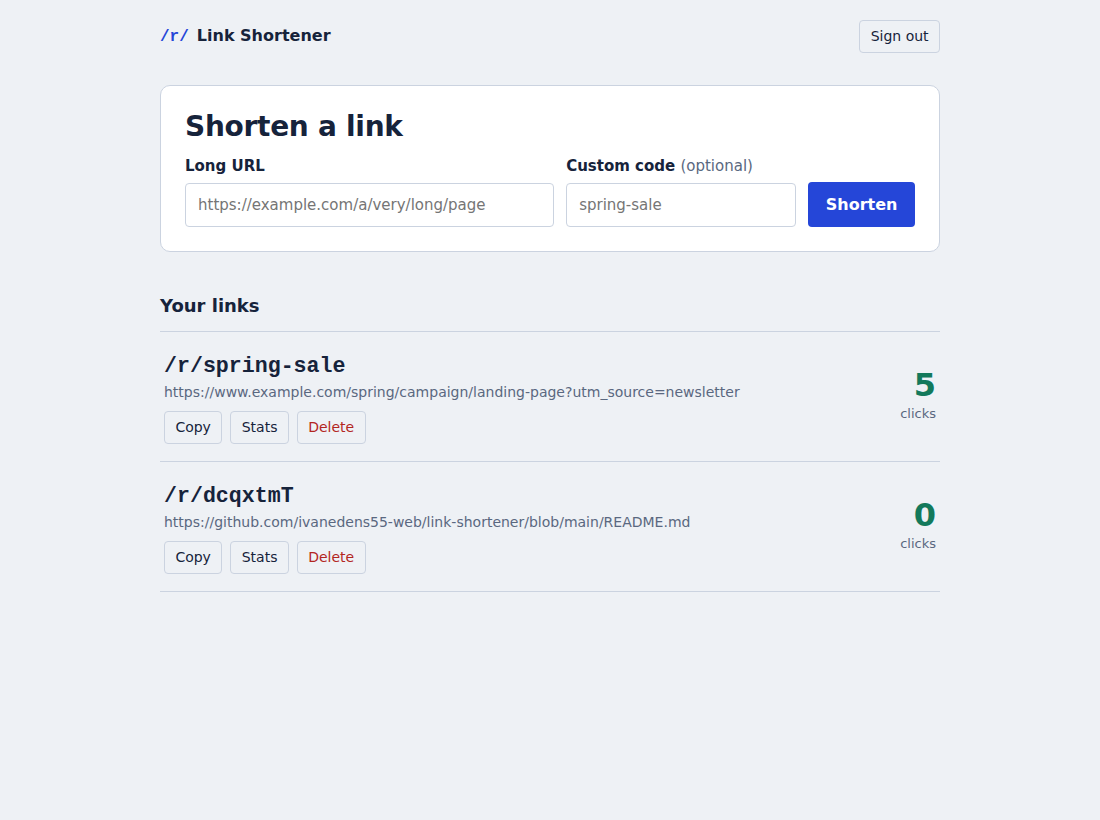
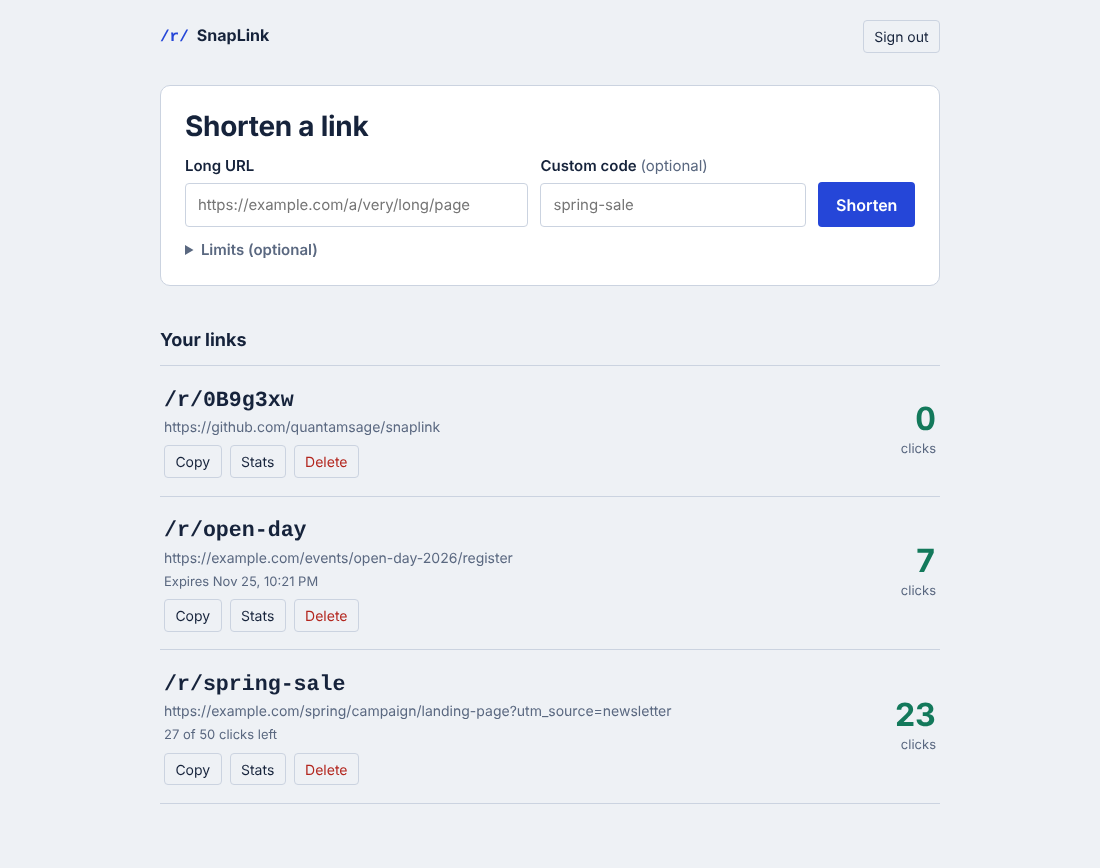
Update README and screenshots for SnapLink

diff --git a/README.md b/README.md
@@ -1,8 +1,10 @@
-# Link Shortener with Click Analytics
+# SnapLink
+
+![Tests](https://github.com/quantamsage/snaplink/actions/workflows/tests.yml/badge.svg)
+
+A link shortener with click analytics, expiring links and QR codes.
 
 Turns long URLs into short links and counts every click. Users sign in, create and manage their own links, and see a per-link stats page with daily clicks and top referrers. The backend handles the redirect itself, so every click is recorded in the database before the visitor is sent on.
-
-(The API runs on Render's free tier and sleeps when idle: the first request can take ~50 seconds.)
 
 ## Features
 
@@ -11,6 +13,9 @@ Turns long URLs into short links and counts every click. Users sign in, create a
 - Public redirect at `/r/{code}` that records the click, then redirects with HTTP 302
 - Dashboard of your links with live click counts, copy and delete
 - Stats page: all-time total, clicks per day (7 / 30 / 90 days, zero days included) and top 5 referrers
+- **Expiring links:** set a date and time after which a link stops working, a maximum number of clicks, or both. Change or remove the limits at any time. A stopped link returns **410 Gone**, doesn't count the visit, and shows visitors a small "this link has expired" page instead of JSON.
+- **Safe under load:** a link with a click limit is row-locked while its clicks are counted, so two people clicking at the same moment can't both use the last click (there's a test that fires two simultaneous clicks).
+- **QR codes:** every link has a QR code (preview, PNG or SVG download). It encodes the short URL, not the target, so scans are counted like clicks.
 - Users can only see and change their own links (others' links return 404)
 - API contract in `docs/openapi.yaml`, enforced by a test
 
@@ -26,10 +31,9 @@ Turns long URLs into short links and counts every click. Users sign in, create a
 
 ## Tech stack
 
-- **Backend:** Python 3.12, FastAPI, Pydantic v2, psycopg 3 (connection pool), PyJWT, argon2-cffi
+- **Backend:** Python 3.12, FastAPI, Pydantic v2, psycopg 3 (connection pool), PyJWT, argon2-cffi, segno (QR codes)
 - **Frontend:** Next.js 16 (App Router), React 19, TypeScript, plain CSS
-- **Database:** PostgreSQL 16 (Supabase), tables prefixed `shortener_`
-- **Hosting:** Render (backend, Frankfurt) · Vercel (frontend) · Supabase (database)
+- **Database:** PostgreSQL 16 (also works on Supabase), tables prefixed `shortener_`
 - **Testing:** pytest against a real Postgres database; GitHub Actions CI
 
 ## Architecture
@@ -38,16 +42,16 @@ Turns long URLs into short links and counts every click. Users sign in, create a
 flowchart LR
     B[Browser]
     V[Visitor clicking a short link]
-    FE["Next.js frontend<br/>(Vercel)"]
-    API["FastAPI backend<br/>(Render)"]
-    DB[("PostgreSQL<br/>(Supabase)")]
+    FE["Next.js frontend"]
+    API["FastAPI backend"]
+    DB[("PostgreSQL")]
     T[Target website]
 
     B -- "loads pages" --> FE
     B -- "JSON over HTTPS<br/>Authorization: Bearer JWT" --> API
     V -- "GET /r/{code}" --> API
     API -- "302 Location" --> T
-    API -- "parameterised SQL<br/>as role shortener_app<br/>(Session pooler)" --> DB
+    API -- "parameterised SQL<br/>as role shortener_app" --> DB
 ```
 
 The frontend never talks to the database. It only renders pages and calls the API. All state lives in Postgres; all validation, ownership checks and counting happen in the backend.
@@ -70,7 +74,7 @@ The frontend never talks to the database. It only renders pages and calls the AP
 
 The access token is kept in `sessionStorage`. The options and why:
 
-- **httpOnly cookie:** JavaScript can't read it, so XSS can't steal it. But the frontend (vercel.app) and API (onrender.com) are different sites, so it would be a third-party cookie, which browsers increasingly block, and it brings CSRF protection into play. Worth it with a custom domain for both.
+- **httpOnly cookie:** JavaScript can't read it, so XSS can't steal it. But when the frontend and API are on different sites it would be a third-party cookie, which browsers increasingly block, and it brings CSRF protection into play. Worth it with a custom domain for both.
 - **localStorage:** survives restarts, but any XSS can read it, and it lingers for a long time.
 - **Memory only:** safest against persistence, but every refresh signs you out.
 - **sessionStorage (chosen):** survives a refresh, cleared when the tab closes. Still readable by XSS, so the risk is reduced with a short token lifetime (30 min), a strict Content-Security-Policy, React's output escaping, and no `dangerouslySetInnerHTML`.
@@ -78,7 +82,7 @@ The access token is kept in `sessionStorage`. The options and why:
 ## Project structure
 
 ```
-link-shortener/
+snaplink/
 ├── backend/
 │   ├── app/
 │   │   ├── main.py          # app factory: middleware, CORS, headers, routes
@@ -91,34 +95,32 @@ link-shortener/
 │   │   ├── codes.py         # short-code generation, referrer parsing
 │   │   ├── deps.py          # DB connection + current user dependencies
 │   │   └── routers/         # auth.py, links.py, redirect.py
-│   ├── tests/               # 65 tests (unit, contract, real-Postgres API tests)
+│   ├── tests/               # 79 tests (unit, contract, real-Postgres API tests)
 │   ├── requirements.txt / requirements-dev.txt
 │   └── .env.example
 ├── frontend/
 │   ├── app/                 # pages: dashboard, login, register, links/[id] (stats)
-│   ├── components/          # Header, AuthForm, CopyButton
-│   ├── lib/                 # api.ts (only backend client), auth.ts, useRequireAuth.ts
+│   ├── components/          # Header, AuthForm, CopyButton, LinkLimitsPanel, QrPanel
+│   ├── lib/                 # api.ts (only backend client), auth.ts, limits.ts, useRequireAuth.ts
 │   ├── next.config.ts       # Content-Security-Policy + security headers
 │   └── .env.example
 ├── db/schema.sql            # tables, indexes, constraints, app role, RLS
 ├── docs/openapi.yaml        # the API contract
 ├── .github/workflows/tests.yml
-├── render.yaml              # Render blueprint (backend)
 └── README.md
 ```
 
 ## Setup (Windows / PowerShell)
 
-### 1. Database (Supabase)
+### 1. Database (local PostgreSQL)
 
-1. In your Supabase project, open **SQL Editor**, paste `db/schema.sql` and run it.
-2. Set the app role's password (generate a long random one, keep it out of the repo):
-   ```sql
-   alter role shortener_app with login password '<long-random-password>';
-   ```
-3. **Settings → Data API:** make sure the Data API is off (the backend connects directly).
-4. **Connect → Session pooler:** copy the string, then change the user to the app role:
-   `postgresql://shortener_app.<project-ref>:<password>@aws-0-<region>.pooler.supabase.com:5432/postgres`
+```powershell
+psql -U postgres -c "CREATE DATABASE shortener_dev"
+psql -U postgres -d shortener_dev -f db\schema.sql
+psql -U postgres -c "ALTER ROLE shortener_app WITH LOGIN PASSWORD '<choose-a-password>'"
+```
+
+In `backend/.env`, set `DATABASE_URL=postgresql://shortener_app:<that-password>@localhost:5432/shortener_dev` and `PUBLIC_BASE_URL=http://localhost:8000` (short links and QR codes point there).
 
 ### 2. Backend
 
@@ -153,7 +155,7 @@ cd backend
 python -m pytest -q
 ```
 
-Without test database variables, 13 unit and contract tests run and 52 database tests are **skipped**. The full suite runs on every push in GitHub Actions (Postgres 16 container). To run it locally you need a disposable Postgres (local install or `docker run -e POSTGRES_PASSWORD=postgres -p 5432:5432 postgres:16`), with `db/schema.sql` applied, then:
+Without test database variables, 13 unit and contract tests run and 66 database tests are **skipped**. The full suite runs on every push in GitHub Actions (Postgres 16 container). To run it locally you need a disposable Postgres (local install or `docker run -e POSTGRES_PASSWORD=postgres -p 5432:5432 postgres:16`), with `db/schema.sql` applied, then:
 
 ```powershell
 $env:TEST_DATABASE_URL = "postgresql://shortener_app:<pw>@localhost:5432/shortener_test"
@@ -161,34 +163,25 @@ $env:TEST_ADMIN_DATABASE_URL = "postgresql://postgres:<pw>@localhost:5432/shorte
 python -m pytest -q
 ```
 
-> ⚠ The tests **wipe the shortener tables** before each test. Never point them at your real Supabase database.
-
-## Deployment
-
-**Backend (Render):** New → Blueprint → select this repo (uses `render.yaml`, region Frankfurt). Set:
-`DATABASE_URL` (Session pooler string as `shortener_app`), `PUBLIC_BASE_URL` (the Render URL, e.g. `https://link-shortener-api.onrender.com`), `CORS_ORIGINS` (your Vercel URL, no trailing slash). `JWT_SECRET` is generated by Render.
-
-**Frontend (Vercel):** import the repo, set **Root Directory** to `frontend`, add `NEXT_PUBLIC_API_URL` = your Render URL, deploy. It's baked in at build time, so redeploy after changing it.
-
-Then put the final Vercel URL in Render's `CORS_ORIGINS` and redeploy the backend.
+> ⚠ The tests **wipe the shortener tables** before each test. Never point them at a database you care about.
 
 ## How it works
 
 1. **Sign up / sign in.** The backend hashes the password with Argon2id. Login returns a JWT (`sub` = user id, `exp` = 30 min). The frontend sends it as `Authorization: Bearer …`.
 2. **Create a link.** The backend validates the URL (http/https only, ≤ 2048 chars) and the optional custom code, then inserts it. Random codes come from `secrets` (62⁷ ≈ 3.5 trillion options); on the rare collision it retries.
 3. **Someone clicks.** `GET /r/{code}` looks up the code (unique index), inserts a row into `shortener_clicks` with the time and the referrer's **host only**, then returns a **302** with `Cache-Control: no-store`. A 301 would be cached by browsers and later clicks would never reach the server.
-4. **Stats.** One SQL query uses `generate_series` to build every day in the window (so zero-click days still appear), left-joined to the click counts. Another groups by referrer host.
+4. **Limits.** Before redirecting, the backend checks `expires_at` and counts clicks against `max_clicks`. For a link with a click limit it first locks the link row (`SELECT … FOR UPDATE`), so simultaneous clicks are counted one at a time. A stopped link answers **410** without recording a click; browsers get an HTML page, API clients the JSON error. The app's database role can update only `expires_at` and `max_clicks`, never the code or target.
+5. **QR codes.** `GET /api/links/{id}/qr?format=svg|png` builds the image with segno from the short URL. The frontend fetches it with the token and shows it from a `blob:` URL (allowed by the CSP).
+6. **Stats.** One SQL query uses `generate_series` to build every day in the window (so zero-click days still appear), left-joined to the click counts. Another groups by referrer host.
 
 ## Limitations
 
-- Short links live on the API domain (`…onrender.com/r/abc1234`), so they aren't very short without a custom domain.
-- Free Render instances sleep: the first click after idle time takes ~50 seconds to redirect.
+- Short links live on the API's address (`localhost:8000/r/abc1234` when run locally), so they're only truly short behind a short custom domain.
 - No rate limiting, so someone could create many links or inflate click counts. Bots and link-preview crawlers (Slack, WhatsApp) also count as clicks.
 - Any http/https URL is accepted. There's no malware/phishing check, so it could be abused to disguise harmful links.
 - No refresh tokens: you're signed out after 30 minutes or when the tab closes.
-- A missing short link returns a JSON 404 rather than a friendly web page.
+- Expiry times are entered in the viewer's local time and stored in UTC; there's no time-zone picker.
 - Click counts use `count(*)` per request; fine at portfolio scale, would need a counter or rollup table at high volume.
-- The free Supabase project pauses after about a week of inactivity; the demo fails until it's restored from the dashboard.
 
 ## Future improvements
 
@@ -196,8 +189,8 @@ Then put the final Vercel URL in Render's `CORS_ORIGINS` and redeploy the backen
 - Bot filtering (user-agent rules) and unique-visitor counts
 - Custom short domain, with httpOnly-cookie auth on the same site
 - Safe Browsing check on target URLs
-- QR codes, link expiry, editing target URLs
-- Friendly HTML 404 page for unknown codes
+- Editing target URLs (with a history of changes)
+- Password-protected links
 
 ## License
 
